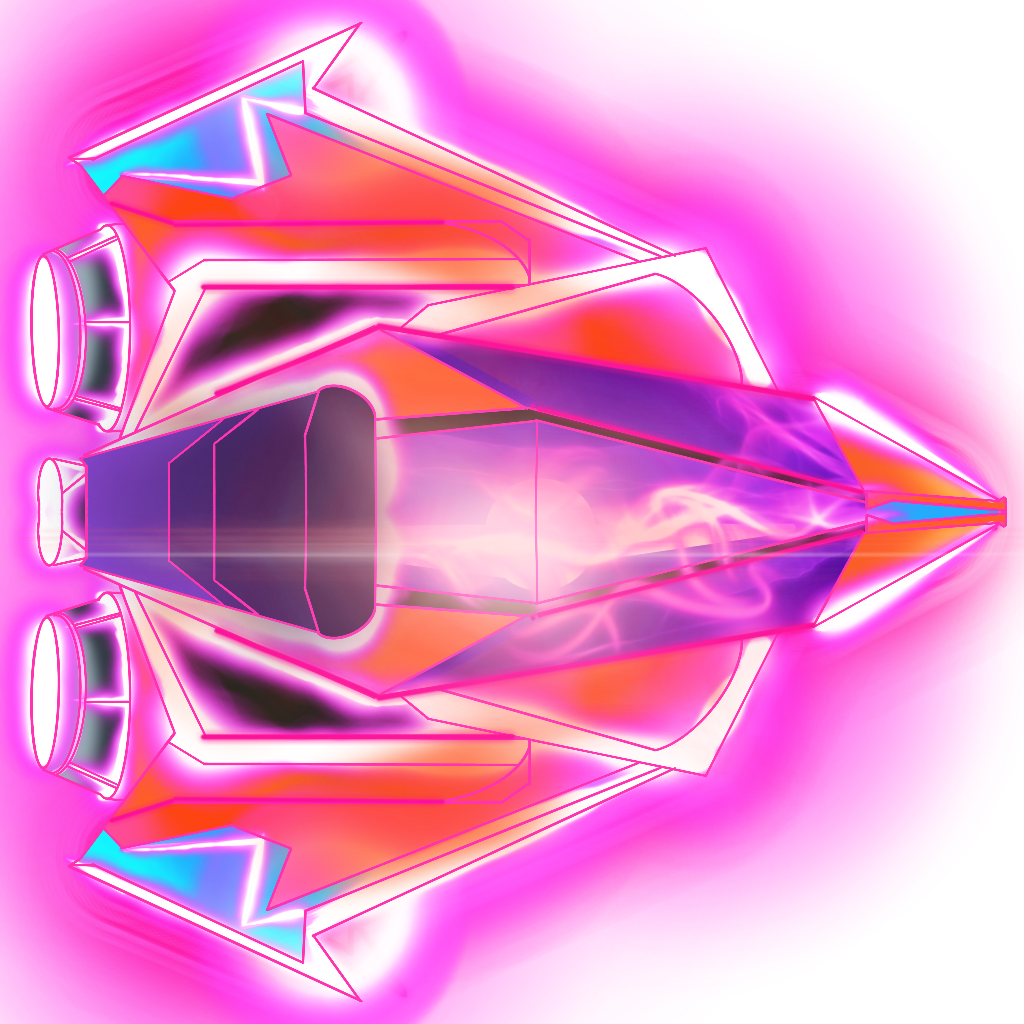
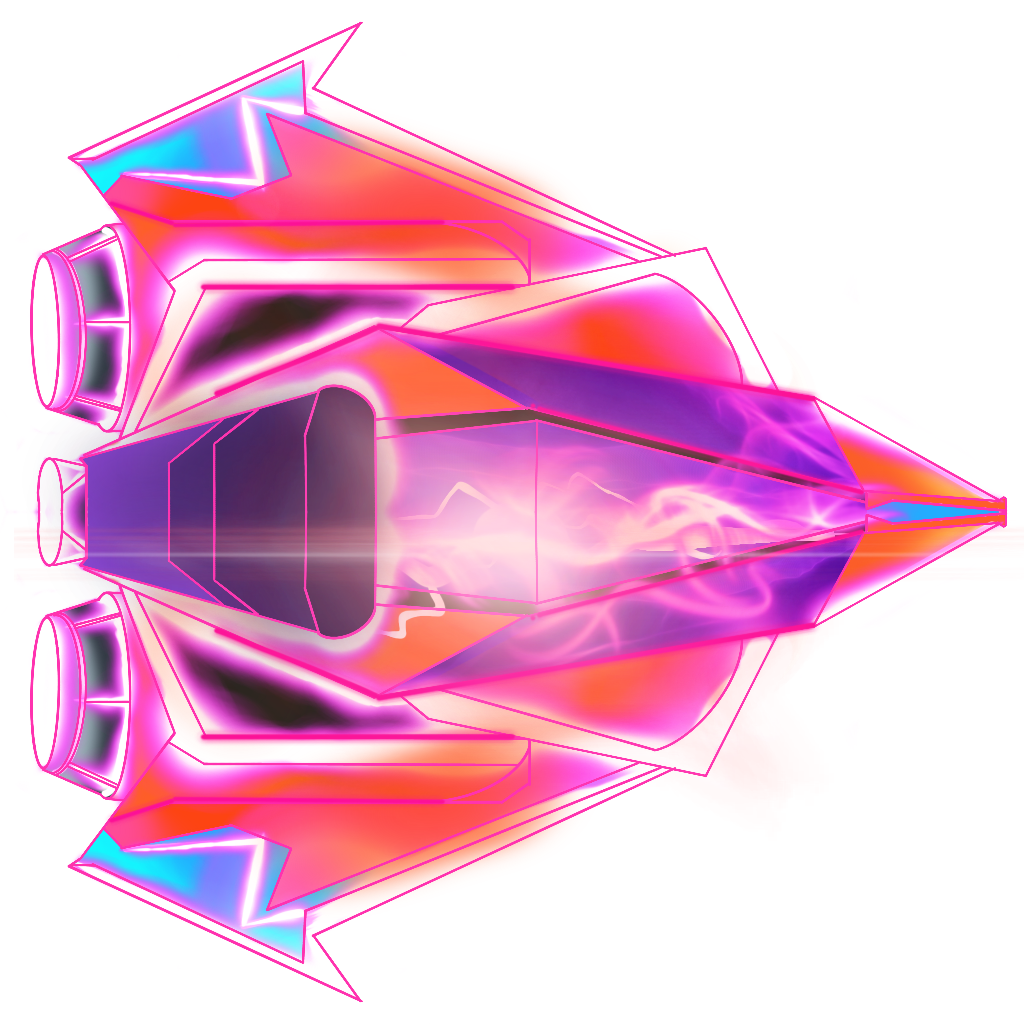
glow WIP, shield & ship collider updates

diff --git a/Assets/Scripts/PlayerController.cs b/Assets/Scripts/PlayerController.cs
@@ -383,6 +383,7 @@ public class PlayerController : MonoBehaviour
     {
         // ship outline color
         _desiredIntensity = intensityMultiplier * maxEmissionIntensity;
+        // for mike 0.1875f(intensityMultiplier * intensityMultiplier) + 0.875(intensityMultiplier);
 
         while (currentIntensity < _desiredIntensity)
         {
